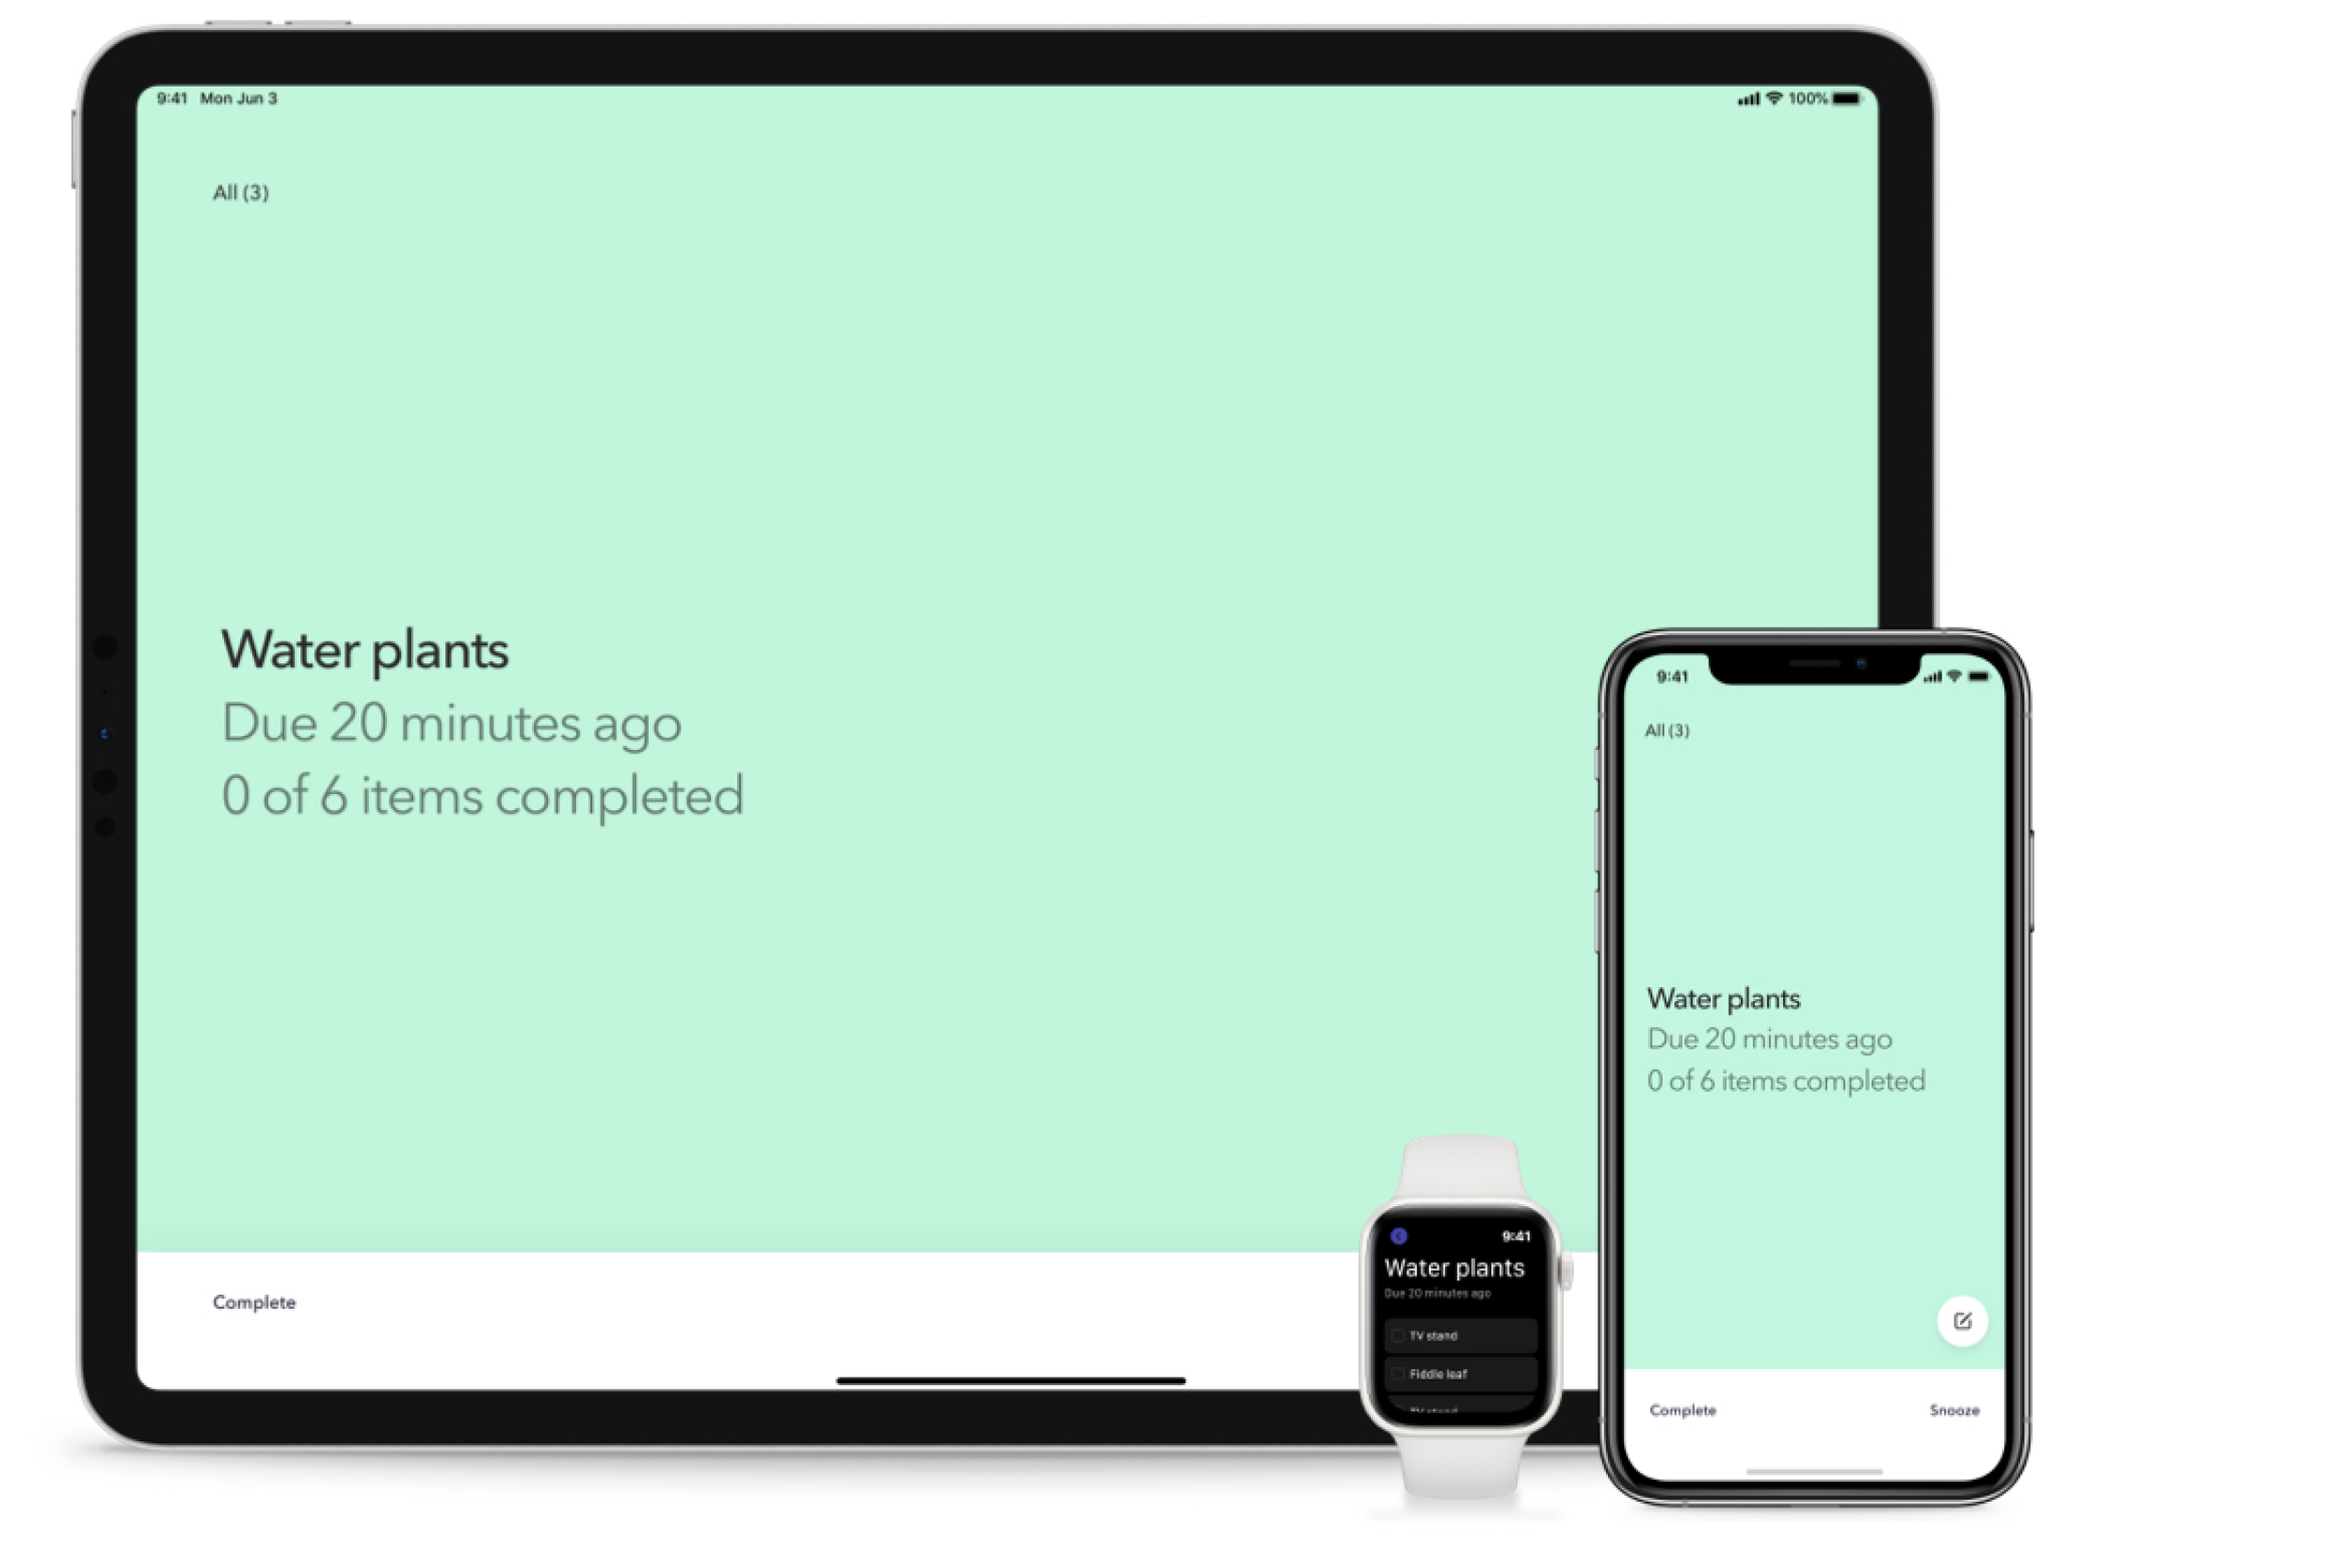
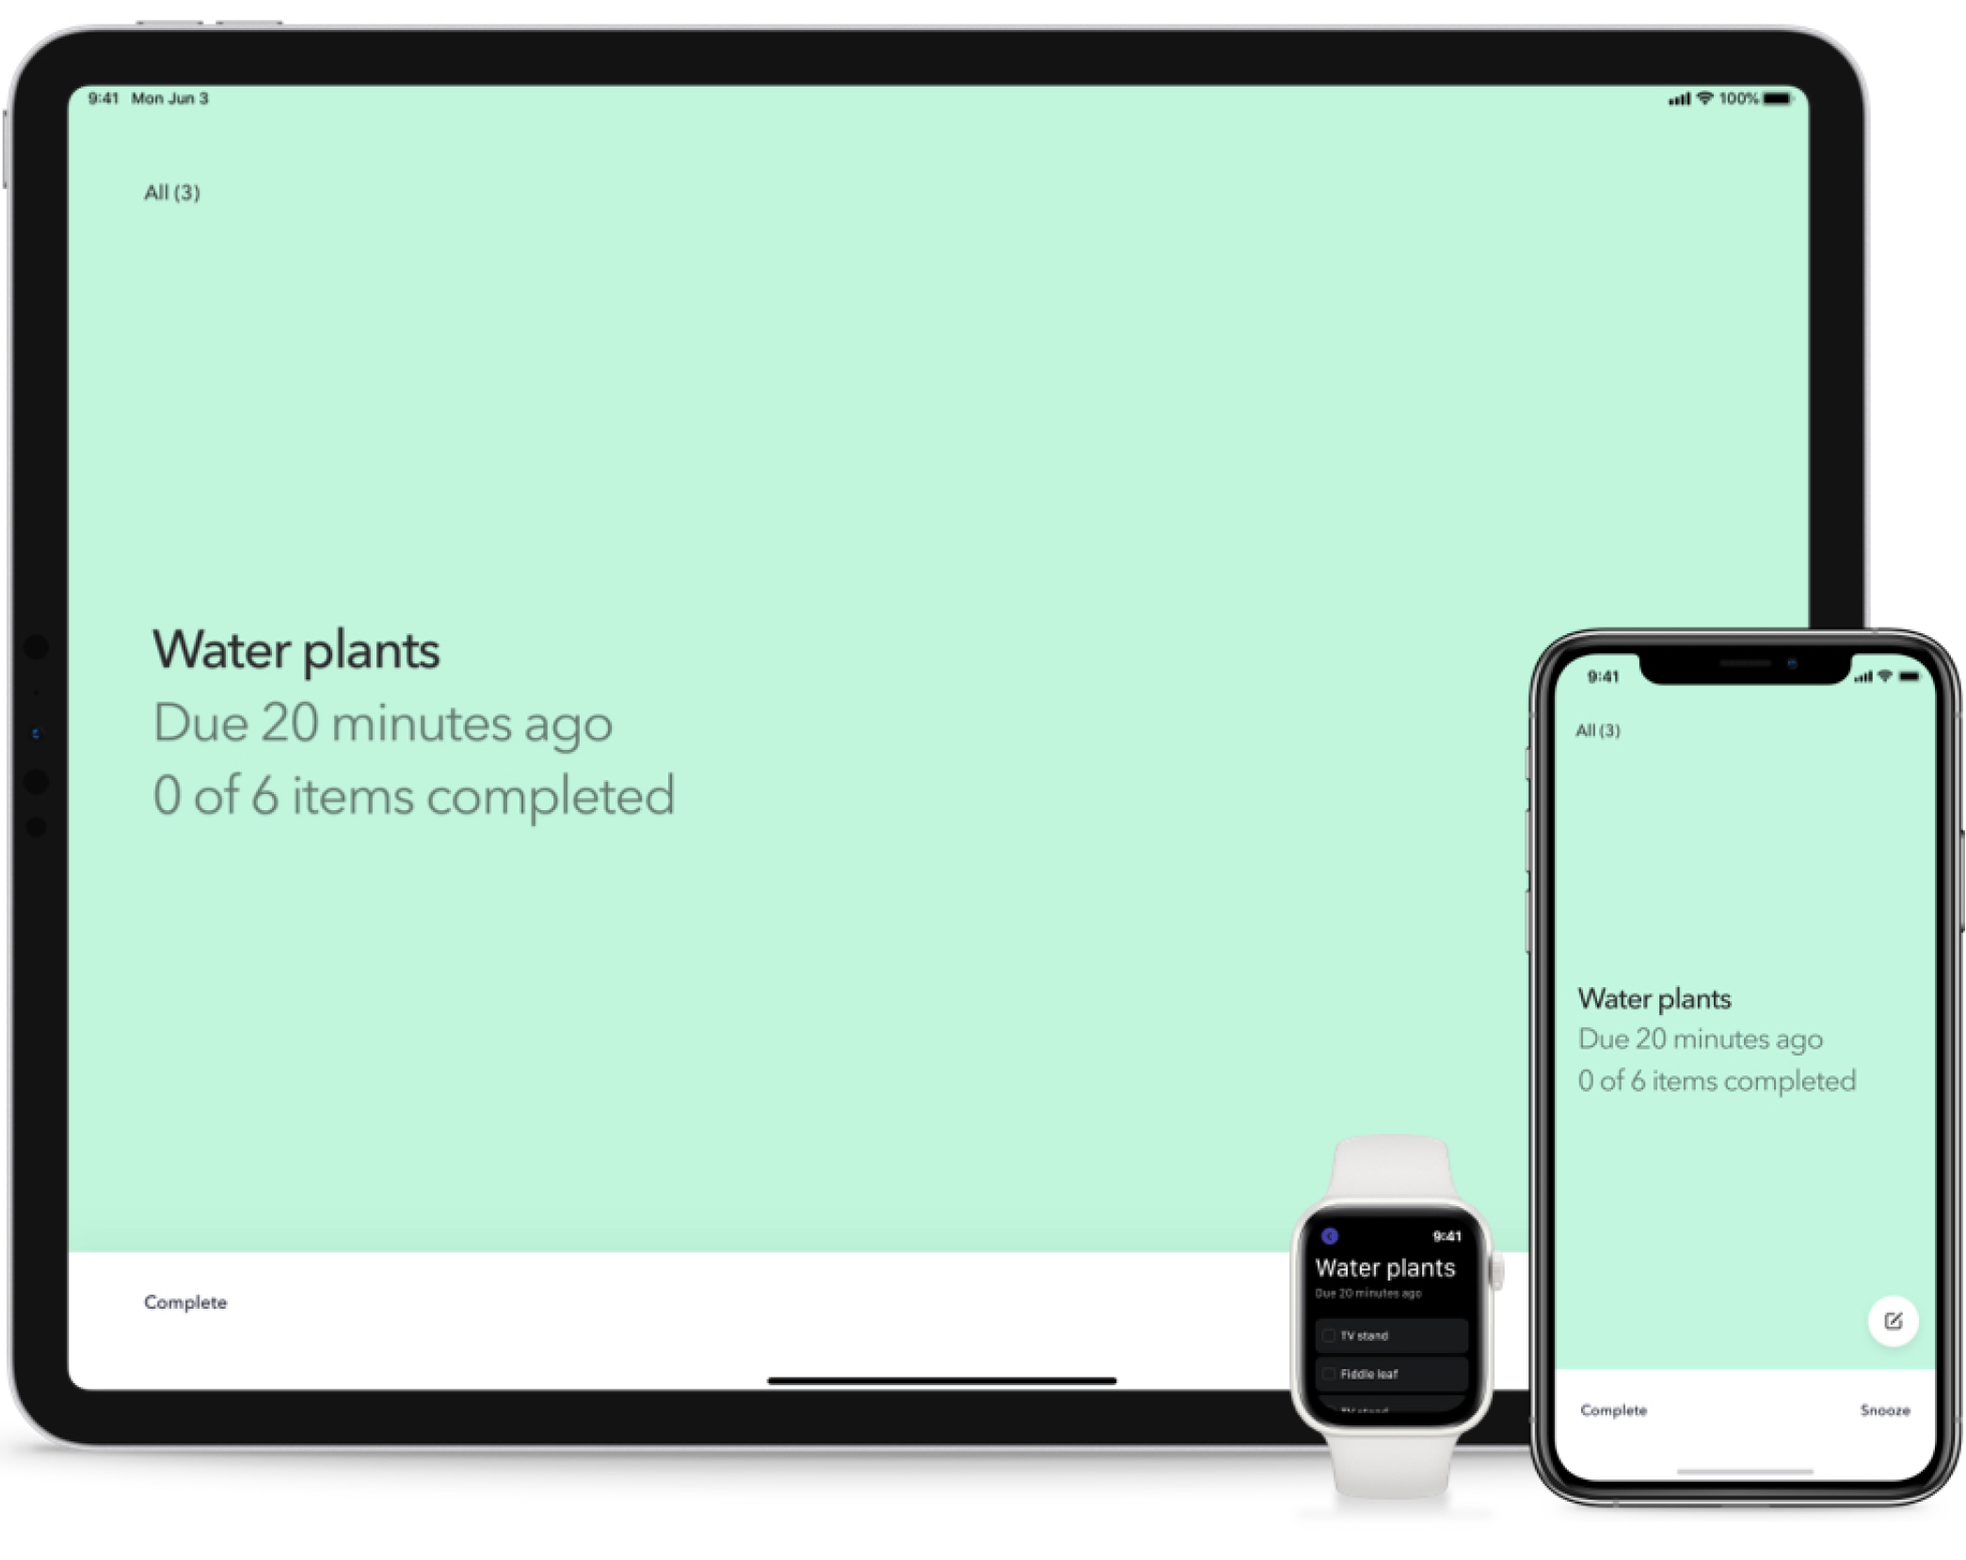
Image size eight-frame

Changed region(s): [[0.4978, 0.0, 1.0, 0.9843], [0.0, 0.0, 0.3423, 0.9536], [0.3734, 0.8613, 0.4045, 0.892]]

diff --git a/scss/style.scss b/scss/style.scss
@@ -19,6 +19,7 @@ body {
 .wrapper {
   min-height: 100vh; //full screen
   @include flex(flex, column, none, none);
+  // border: 1px solid #000;
 }
 // header
 .content {
@@ -26,7 +27,6 @@ body {
 }
 .header {
   &__container {
-    max-width: 1238px;
     margin: 17px auto 32px auto;
     @include flex(flex, row, space-between, center);
   }
@@ -73,7 +73,8 @@ body {
   &__img {
     margin-top: 146px;
     img {
-      max-width: 100vw;
+      width: 100%;
+      min-width: 100vw;
     }
   }
 }
@@ -109,7 +110,7 @@ body {
   &__img {
     background-color: #f0f2fa;
     padding: 130px 300px;
-    max-width: 90vw;
+    width: 90vw;
     margin: 0 auto;
   }
 }
@@ -135,7 +136,7 @@ body {
   &__img {
     background-color: #f0f2fa;
     padding: 130px 300px;
-    max-width: 90vw;
+    width: 90vw;
     margin: 0 auto;
   }
 }
@@ -153,7 +154,7 @@ body {
   &__img {
     background-color: #f0f2fa;
     padding: 130px 300px;
-    max-width: 90vw;
+    width: 90vw;
     text-align: center;
     margin: 0 auto;
   }
@@ -234,9 +235,8 @@ body {
 
   &__device {
     img {
-      max-width: 100vw;
-      margin-left: 100px;
-      margin-right: 100px;
+      width: 90vw;
+      text-align: center;
     }
     margin-bottom: 223px;
   }

diff --git a/css/style.css b/css/style.css
@@ -108,7 +108,6 @@ body {
 }
 
 .header__container {
-  max-width: 1238px;
   margin: 17px auto 32px auto;
   display: -webkit-box;
   display: -ms-flexbox;
@@ -182,7 +181,8 @@ body {
 }
 
 .first-frame__img img {
-  max-width: 100vw;
+  width: 100%;
+  min-width: 100vw;
 }
 
 .second-frame {
@@ -243,7 +243,7 @@ body {
 .three-frame__img {
   background-color: #f0f2fa;
   padding: 130px 300px;
-  max-width: 90vw;
+  width: 90vw;
   margin: 0 auto;
 }
 
@@ -278,7 +278,7 @@ body {
 .four-frame__img {
   background-color: #f0f2fa;
   padding: 130px 300px;
-  max-width: 90vw;
+  width: 90vw;
   margin: 0 auto;
 }
 
@@ -295,7 +295,7 @@ body {
 .five-frame__img {
   background-color: #f0f2fa;
   padding: 130px 300px;
-  max-width: 90vw;
+  width: 90vw;
   text-align: center;
   margin: 0 auto;
 }
@@ -426,9 +426,8 @@ body {
 }
 
 .eight-frame__device img {
-  max-width: 100vw;
-  margin-left: 100px;
-  margin-right: 100px;
+  width: 90vw;
+  text-align: center;
 }
 
 .footer__row {
